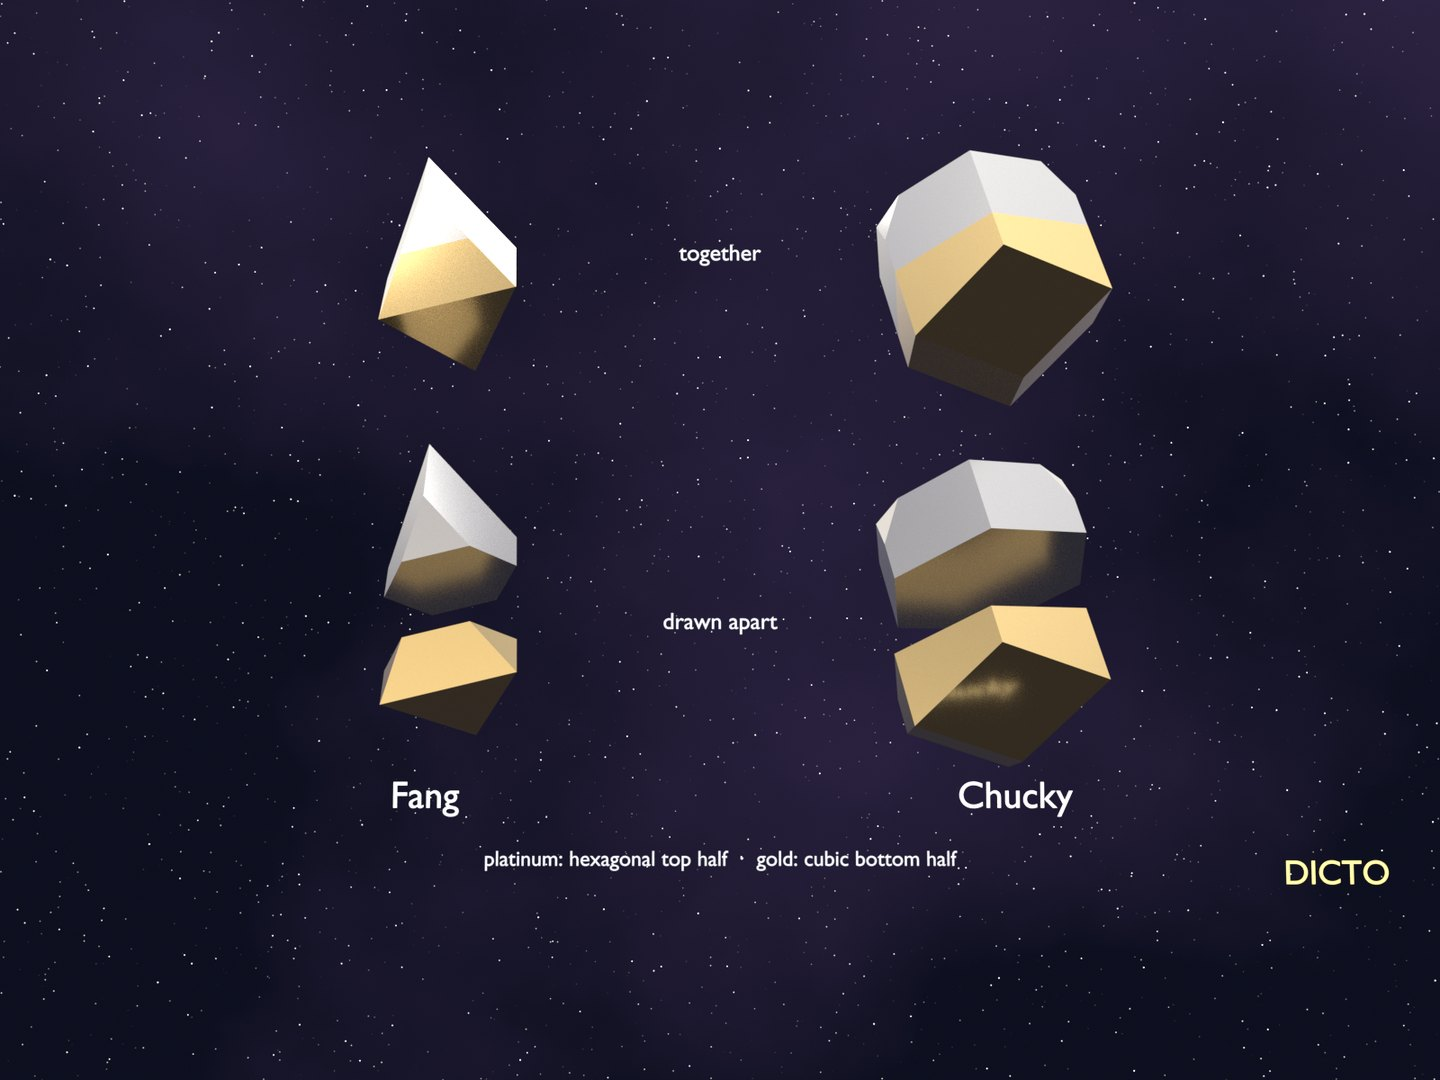
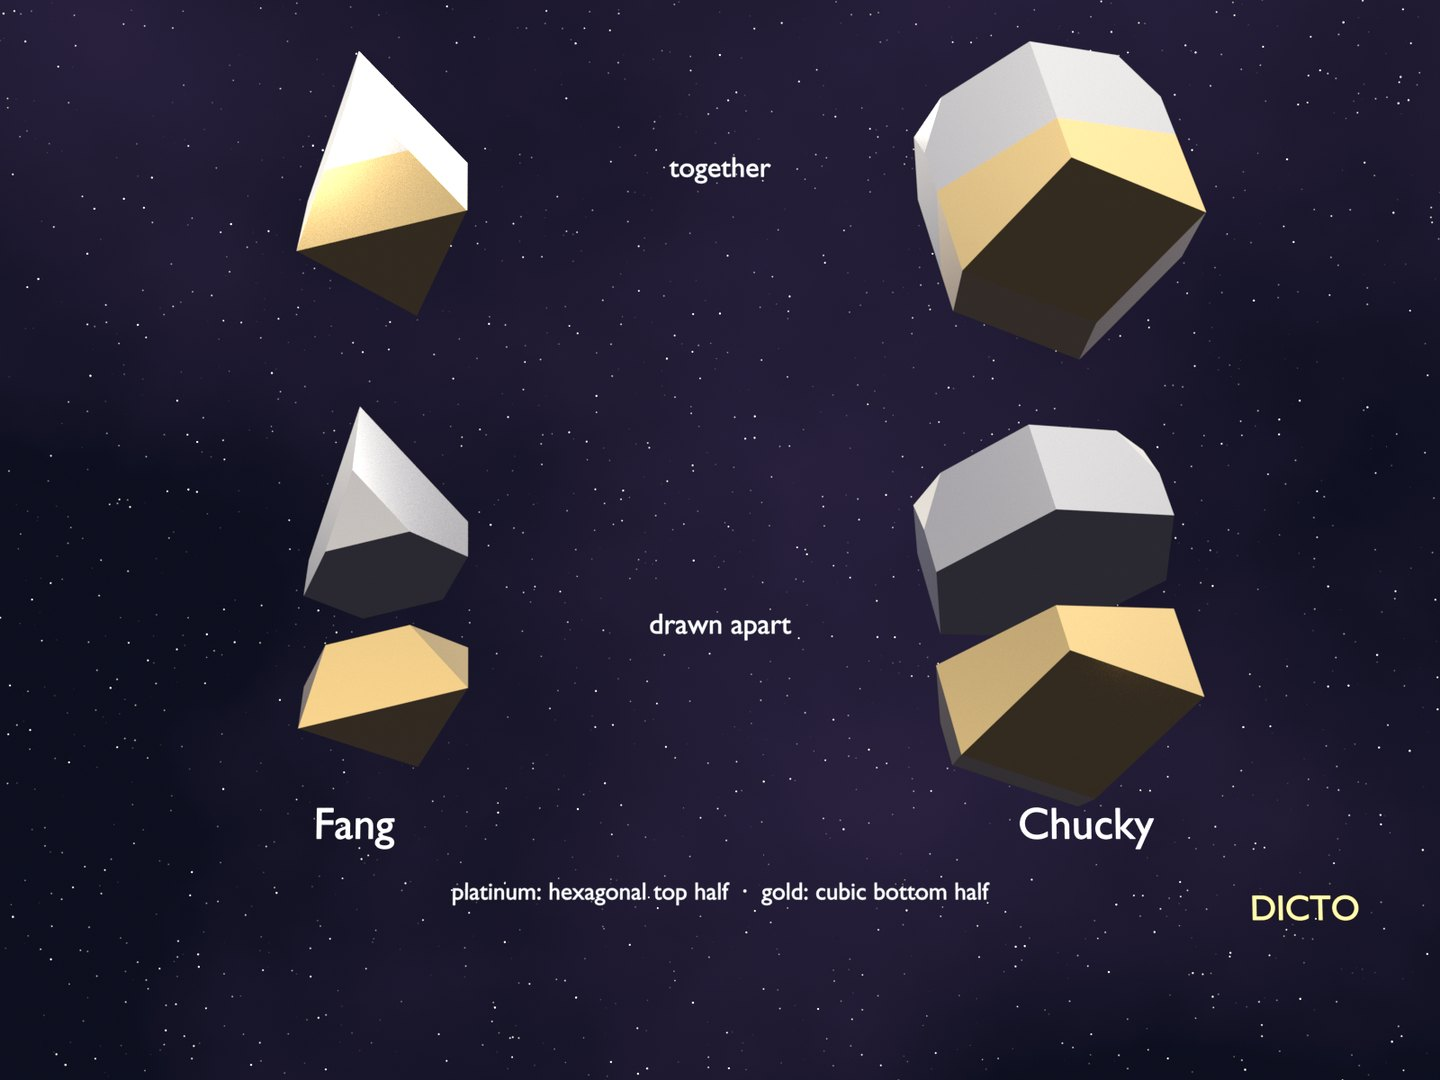
#57 card image: bigger pieces, no cross-reflections

diff --git a/index.html b/index.html
@@ -152,7 +152,7 @@
     <p class="disc-note">Short papers by DICTO, with the checks behind every claim.</p>
     <div class="papers">
       <div class="paper feature"><img src="papers/vajrayana.jpg?v=3" alt="Vajrayana: the Cleo star build pulled apart, assembled inside the dodecahedron D′, and in the cycle; below, the twelve stations of the golden cycle at true scale" loading="eager" width="1776" height="999"><span class="t"><span class="num">#35</span> Vajrayana</span><span class="s">A companion to Progenitors. The dodecahedron returns inside the golden cycle as the hull of DICTO's Cleo star, filled exactly by 82 pieces of four kinds. The last loose step, from the rhombic triacontahedron to the next icosahedron, is closed by a new solid that touches both, the DICTO Metaxyhexecontahedron, each of its two layers one kind of piece. The cycle grows to twelve stations. Exact in every step.</span><span class="pdoi"><a class="doi-badge" href="https://doi.org/10.5281/zenodo.23429911" title="DICTO DOI, always the newest version"><span>DICTO DOI</span><span>10.5281/zenodo.23429911</span></a></span><span class="btns"><a class="btn" href="https://doi.org/10.5281/zenodo.23429911">Read paper</a><a class="btn" href="https://kaleidohedra.dictospheres.com/?open=vajrayana">View in app</a></span></div>
-      <div class="paper"><img src="papers/rule-of-halves.jpg?v=2" alt="The Rule of Halves: Fang and Chucky in metal on a starfield, each a hexagonal top half (platinum) on a cubic bottom half (gold), whole and drawn apart" loading="lazy" width="1440" height="1080"><span class="t"><span class="num">#57</span> The Rule of Halves</span><span class="s">DICTO's idea: follow the web of bonds onto every way of stacking close-packed layers. Proved exactly: each gap's piece comes from the two pure stackings, cubic and hexagonal. A tetrahedral gap takes the piece of its nearest layer; an octahedral gap is a top half and a bottom half, each from the layer on its side. So all stackings share a finite catalogue of pieces, and where a cubic layer meets a hexagonal one appear the Janus c/h pieces, half of each, named by DICTO: Chucky and Fang.</span><span class="pdoi"><a class="doi-badge" href="https://doi.org/10.5281/zenodo.23647898" title="DICTO DOI, always the newest version"><span>DICTO DOI</span><span>10.5281/zenodo.23647898</span></a></span><span class="btns"><a class="btn" href="https://doi.org/10.5281/zenodo.23647898">Read paper</a></span></div>
+      <div class="paper"><img src="papers/rule-of-halves.jpg?v=3" alt="The Rule of Halves: Fang and Chucky in metal on a starfield, each a hexagonal top half (platinum) on a cubic bottom half (gold), whole and drawn apart" loading="lazy" width="1440" height="1080"><span class="t"><span class="num">#57</span> The Rule of Halves</span><span class="s">DICTO's idea: follow the web of bonds onto every way of stacking close-packed layers. Proved exactly: each gap's piece comes from the two pure stackings, cubic and hexagonal. A tetrahedral gap takes the piece of its nearest layer; an octahedral gap is a top half and a bottom half, each from the layer on its side. So all stackings share a finite catalogue of pieces, and where a cubic layer meets a hexagonal one appear the Janus c/h pieces, half of each, named by DICTO: Chucky and Fang.</span><span class="pdoi"><a class="doi-badge" href="https://doi.org/10.5281/zenodo.23647898" title="DICTO DOI, always the newest version"><span>DICTO DOI</span><span>10.5281/zenodo.23647898</span></a></span><span class="btns"><a class="btn" href="https://doi.org/10.5281/zenodo.23647898">Read paper</a></span></div>
       <div class="paper"><img src="papers/sonsam-lahdeli.jpg?v=1" alt="Sonsam and Lahdeli: the cubic octet walk (Samson, Delilah, cube) above the twinned octet walk (Sonsam, Lahdeli, Ian Dury, the 60 degree rhombohedron, Blockhead)" loading="lazy" width="1440" height="1080"><span class="t"><span class="num">#56</span> Sonsam and Lahdeli</span><span class="s">Names by DICTO. Follow the web of bonds on the mirrored (hexagonal) stacking of the octet: it has its own equal-volume pair, Sonsam and Lahdeli, the twins of Samson and Delilah, then a stop the cubic side never makes, Ian Dury with the 60° rhombohedron, and ends in Blockheads where the cubic side ends in cubes. Keys change the pieces but never the web: Sonsam-K, Lahdeli-K, Ian Dury-K, Rhombo-K. And the Sunstar (#42) is rock salt's switch point keyed with Euclid's roofs. Proved exactly.</span><span class="pdoi"><a class="doi-badge" href="https://doi.org/10.5281/zenodo.23635823" title="DICTO DOI, always the newest version"><span>DICTO DOI</span><span>10.5281/zenodo.23635823</span></a></span><span class="btns"><a class="btn" href="https://doi.org/10.5281/zenodo.23635823">Read paper</a></span></div>
       <div class="paper"><img src="papers/one-turn-gnomon.jpg?v=1" alt="One Turn Is a Gnomon: the eleven steps of the golden cycle, each showing exactly what it adds, from the icosahedron out to the next icosahedron" loading="lazy" width="1440" height="1080"><span class="t"><span class="num">#54</span> One Turn Is a Gnomon</span><span class="s">DICTO's idea: carry the classical gnomon, the piece that makes a figure into a larger copy of itself, into three dimensions through his golden cycle of twelve nested solids. Built exactly, step by step: only the whole turn is a gnomon, the next icosahedron φ³ larger; no single step is. The step pieces are named Julias and Pimentels by DICTO, in tribute to Júlia Pimentel's square method. Also: the polar of the keyed pair.</span><span class="pdoi"><a class="doi-badge" href="https://doi.org/10.5281/zenodo.23633365" title="DICTO DOI, always the newest version"><span>DICTO DOI</span><span>10.5281/zenodo.23633365</span></a></span><span class="btns"><a class="btn" href="https://doi.org/10.5281/zenodo.23633365">Read paper</a></span></div>
       <div class="paper"><img src="papers/david-goliath.jpg?v=1" alt="David and Goliath: Goliath, the convex hull of Jessen's icosahedron, and David, a tetrahedron, filling space together in the A15 structure" loading="lazy" width="1440" height="1080"><span class="t"><span class="num">#55</span> David and Goliath</span><span class="s">Names by DICTO. Slide the weight in the A15 alloy structure and at one exact point the space falls into two pieces: Goliath, Jessen's famous icosahedron filled out to a convex solid, and David, a small tetrahedron that touches only Goliaths. It is the classical A15 picture of Frank and Kasper, reached by the global web of bonds (#53); with the octet, rock salt and zinc blende pairs it supports the theorem. Proved exactly.</span><span class="pdoi"><a class="doi-badge" href="https://doi.org/10.5281/zenodo.23632358" title="DICTO DOI, always the newest version"><span>DICTO DOI</span><span>10.5281/zenodo.23632358</span></a></span><span class="btns"><a class="btn" href="https://doi.org/10.5281/zenodo.23632358">Read paper</a></span></div>
